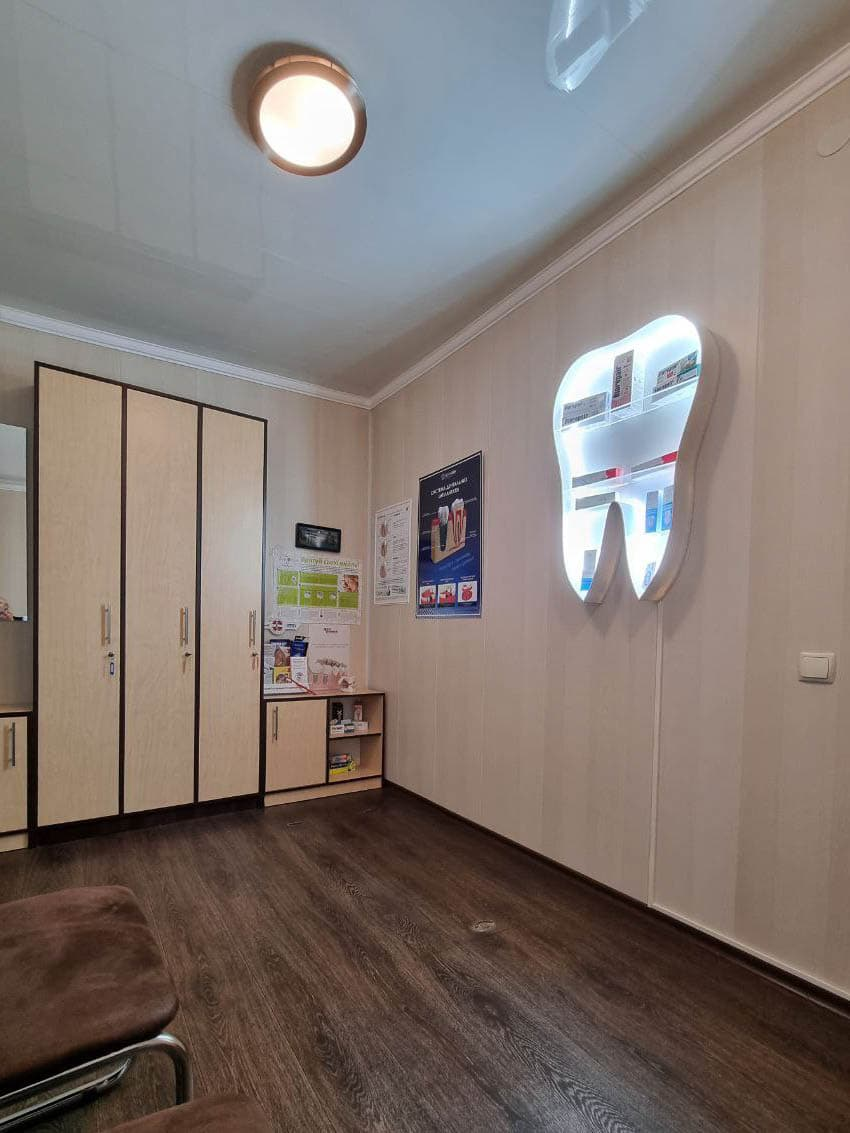
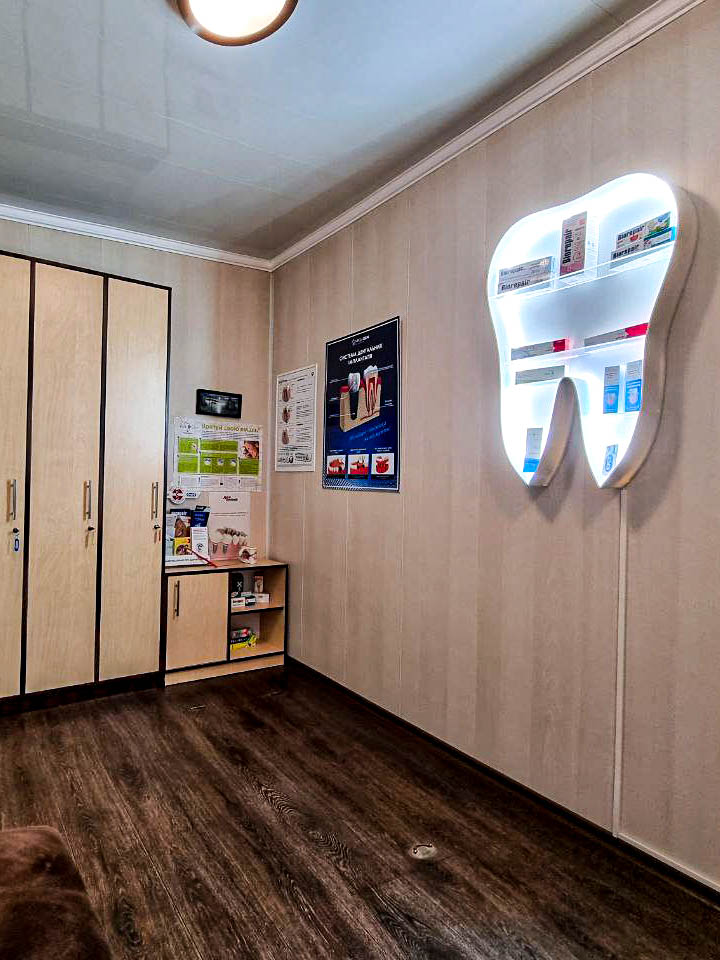
55

diff --git a/index.html b/index.html
@@ -107,7 +107,7 @@
             <div class="clinic-section">
             <h2 class="section-title clinic-title">Клініка</h2>
             <ul class="clinic-list">
-            <li><img src="./images/kab/holl-one.jpg" alt="photo clinic" width="350" class="clinic-item"></li>
+            <li><img src="./images/kab/holl.jpg" alt="photo clinic" width="350" class="clinic-item"></li>
             <li><img src="./images/kab/holl-three.jpg" alt="photo clinic" width="350" class="clinic-item"></li>
             <li><img src="./images/kab/kab-one.jpg" alt="photo clinic" width="350" class="clinic-item"></li>
             <li><img src="./images/kab/photo-kab.jpg" alt="photo clinic" width="350" class="clinic-item"></li>
